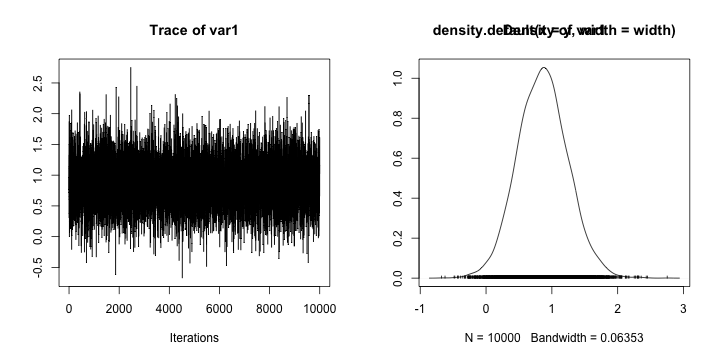
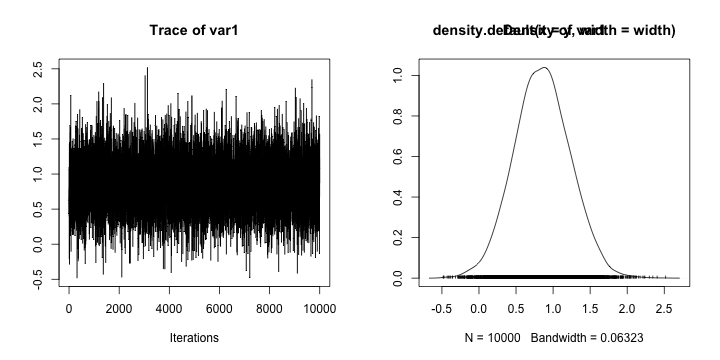
Changed webpage a bit.
git-svn-id: svn://svn.r-forge.r-project.org/svnroot/bayesfactorpcl@249 edb9625f-4e0d-4859-8d74-9fd3b1da38cb

diff --git a/www/index.php b/www/index.php
@@ -137,27 +137,36 @@ echo $contents; } ?>
 <!-- end of project description -->
 <h3> Welcome to the development page for BayesFactor.</h3>
 
-<p> The <strong>project summary page</strong> you can find <a href="http://<?php echo $domain; ?>/projects/<?php echo $group_name; ?>/"><strong>here</strong></a>. </p>
+<p> The <strong>project summary page</strong> can be found <a href="http://<?php echo $domain; ?>/projects/<?php echo $group_name; ?>/"><strong>here</strong></a>. </p>
+
+<p> If you need help using the package or have questions, the <strong>BayesFactor help forum</strong> can be found <a href="https://r-forge.r-project.org/forum/?group_id=554"><strong>here</strong></a>; or, you can email the project maintainer, Richard Morey, at <code>richarddmorey at gmail dot com</code>.</p>
+
+<hr>
 
 
 
 
 
-<p>Here we demonstrate a repeated-measures ANOVA-like analysis, using the Bayes factors described in <a href="http://pcl.missouri.edu/node/131">Rouder et al. (2012)</a>. We give a model including the fixed effects we'd like to include (<code>shape</code> and <code>color</code>), and add the effect of participant (<code>ID</code>). We indicate that <code>ID</code> is a random factor with the <code>whichRandom</code> argument. (we turn the progress bars off with <code>progress=FALSE</code> only so they don't show up on the webpage. We recommend leaving them on.)
+<p>Here we demonstrate a repeated-measures ANOVA-like analysis, using the Bayes factors described in <a href="http://pcl.missouri.edu/node/131">Rouder et al. (2012)</a>. We give a model including the fixed effects we'd like to include (<code>shape</code> and <code>color</code>), and add the effect of participant (<code>ID</code>). We indicate that <code>ID</code> is a random factor with the <code>whichRandom</code> argument.
 <div class="chunk"><div class="rcode"><div class="source"><pre class="knitr r"><span class="functioncall">data</span>(puzzles)
-bfs = <span class="functioncall">anovaBF</span>(RT ~ shape * color + ID, data = puzzles, whichRandom = <span class="string">"ID"</span>, progress = <span class="keyword">FALSE</span>)
+bfs = <span class="functioncall">anovaBF</span>(RT ~ shape * color + ID, data = puzzles, whichRandom = <span class="string">"ID"</span>)
 bfs
-</pre></div><div class="output"><pre class="knitr r">## Bayes factor analysis
+</pre></div></div></div>
+
+
+<div class="chunk"><div class="rcode"><div class="output"><pre class="knitr r">## Bayes factor analysis
 ## --------------
-## [1] shape + ID                       : 2.918 (1.39%)
-## [2] color + ID                       : 2.844 (1.41%)
-## [3] shape + color + ID               : 11.58 (1.64%)
-## [4] shape + color + shape:color + ID : 4.46 (2%)
+## [1] shape + ID                       : 2.866 (1.41%)
+## [2] color + ID                       : 2.898 (1.39%)
+## [3] shape + color + ID               : 12.07 (1.64%)
+## [4] shape + color + shape:color + ID : 4.359 (2.01%)
 ## ---
 ##  Denominator:
 ## Type: BFlinearModel, JZS
 ## RT ~ ID
 </pre></div></div></div>
+
+
 
 The model including only the main effects, and no interaction, is preferred by a Bayes factor of about 12 to 1 (with a proportional error in estimation of 1-2%). We can plot the Bayes factor object to obtain a graphical representation of the Bayes factors:
 <div class="chunk"><div class="rcode"><div class="source"><pre class="knitr r"><span class="functioncall">plot</span>(bfs)
@@ -169,7 +178,7 @@ The model including only the main effects, and no interaction, is preferred by a
 <div class="chunk"><div class="rcode"><div class="source"><pre class="knitr r">bfs[3]/bfs[4]
 </pre></div><div class="output"><pre class="knitr r">## Bayes factor analysis
 ## --------------
-## [1] shape + color + ID : 2.596 (2.58%)
+## [1] shape + color + ID : 2.769 (2.59%)
 ## ---
 ##  Denominator:
 ## Type: BFlinearModel, JZS
@@ -182,7 +191,7 @@ The main effects model is preferred over the model with the interaction by a fac
 <div class="chunk"><div class="rcode"><div class="source"><pre class="knitr r">samples = <span class="functioncall">posterior</span>(bfs[4], iterations = 10000)
 </pre></div></div></div>
 
-This samples from the posterior of the fourth numerator model in <code>bfs</code>, which is the model with interaction. <code>samples</samples> now contains the Gibbs sampler output:
+This samples from the posterior of the fourth numerator model in <code>bfs</code>, which is the model with interaction. <code>samples</code> now contains the Gibbs sampler output:
 <div class="chunk"><div class="rcode"><div class="source"><pre class="knitr r"><span class="functioncall">summary</span>(samples[, <span class="functioncall">c</span>(1:5, 18:21)])
 </pre></div><div class="output"><pre class="knitr r">## 
 ## Iterations = 1:10000
@@ -194,28 +203,28 @@ This samples from the posterior of the fourth numerator model in <code>bfs</code
 ##    plus standard error of the mean:
 ## 
 ##                                        Mean    SD Naive SE Time-series SE
-## mu                                 44.99479 0.694  0.00694        0.00759
-## shape-round                         0.43051 0.191  0.00191        0.00161
-## shape-square                       -0.43051 0.191  0.00191        0.00161
-## color-color                        -0.43057 0.190  0.00190        0.00218
-## color-monochromatic                 0.43057 0.190  0.00190        0.00218
-## shape:color-round.&.color          -0.00152 0.165  0.00165        0.00165
-## shape:color-round.&.monochromatic   0.00152 0.165  0.00165        0.00165
-## shape:color-square.&.color          0.00152 0.165  0.00165        0.00165
-## shape:color-square.&.monochromatic -0.00152 0.165  0.00165        0.00165
+## mu                                 44.99151 0.691  0.00691        0.00802
+## shape-round                         0.42698 0.190  0.00190        0.00215
+## shape-square                       -0.42698 0.190  0.00190        0.00215
+## color-color                        -0.42854 0.189  0.00189        0.00200
+## color-monochromatic                 0.42854 0.189  0.00189        0.00200
+## shape:color-round.&.color          -0.00155 0.164  0.00164        0.00159
+## shape:color-round.&.monochromatic   0.00155 0.164  0.00164        0.00159
+## shape:color-square.&.color          0.00155 0.164  0.00164        0.00159
+## shape:color-square.&.monochromatic -0.00155 0.164  0.00164        0.00159
 ## 
 ## 2. Quantiles for each variable:
 ## 
 ##                                       2.5%    25%      50%    75%   97.5%
-## mu                                 43.6091 44.566 44.99583 45.437 46.3552
-## shape-round                         0.0661  0.301  0.42901  0.555  0.8171
-## shape-square                       -0.8171 -0.555 -0.42901 -0.301 -0.0661
-## color-color                        -0.8124 -0.556 -0.42974 -0.301 -0.0699
-## color-monochromatic                 0.0699  0.301  0.42974  0.556  0.8124
-## shape:color-round.&.color          -0.3226 -0.108 -0.00206  0.107  0.3261
-## shape:color-round.&.monochromatic  -0.3261 -0.107  0.00206  0.108  0.3226
-## shape:color-square.&.color         -0.3261 -0.107  0.00206  0.108  0.3226
-## shape:color-square.&.monochromatic -0.3226 -0.108 -0.00206  0.107  0.3261
+## mu                                 43.5959 44.557 44.99460 45.434 46.3612
+## shape-round                         0.0612  0.301  0.42580  0.553  0.8006
+## shape-square                       -0.8006 -0.553 -0.42580 -0.301 -0.0612
+## color-color                        -0.7984 -0.552 -0.42969 -0.303 -0.0616
+## color-monochromatic                 0.0616  0.303  0.42969  0.552  0.7984
+## shape:color-round.&.color          -0.3312 -0.107 -0.00117  0.106  0.3177
+## shape:color-round.&.monochromatic  -0.3177 -0.106  0.00117  0.107  0.3312
+## shape:color-square.&.color         -0.3177 -0.106  0.00117  0.107  0.3312
+## shape:color-square.&.monochromatic -0.3312 -0.107 -0.00117  0.106  0.3177
 </pre></div></div></div>
 
 
